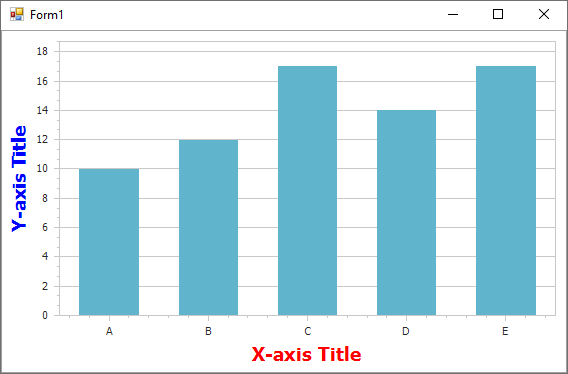
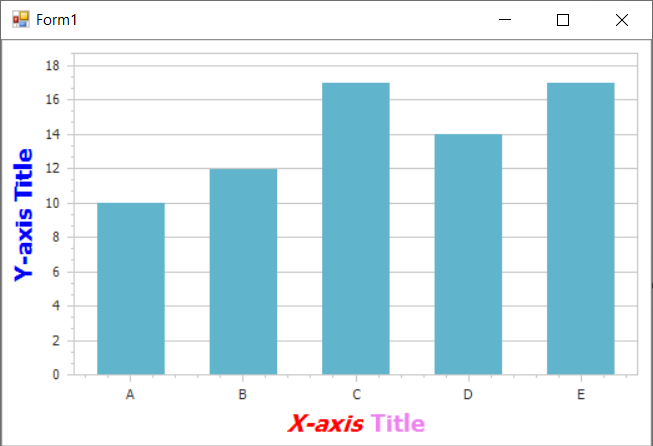
update example

diff --git a/CS/AxisTitle/Form1.cs b/CS/AxisTitle/Form1.cs
@@ -33,7 +33,7 @@ namespace AxisTitle {
             // Customize the appearance of the X-axis title.
             diagram.AxisX.Title.Visibility = DevExpress.Utils.DefaultBoolean.True;
             diagram.AxisX.Title.Alignment = StringAlignment.Center;
-            diagram.AxisX.Title.Text = "X-axis Title";
+            diagram.AxisX.Title.Text = "<i>X-axis</i> <color=violet>Title</color>";
             diagram.AxisX.Title.TextColor = Color.Red;
             diagram.AxisX.Title.EnableAntialiasing = DevExpress.Utils.DefaultBoolean.True;
             diagram.AxisX.Title.DXFont = new DXFont("Tahoma", 14, DXFontStyle.Bold);
